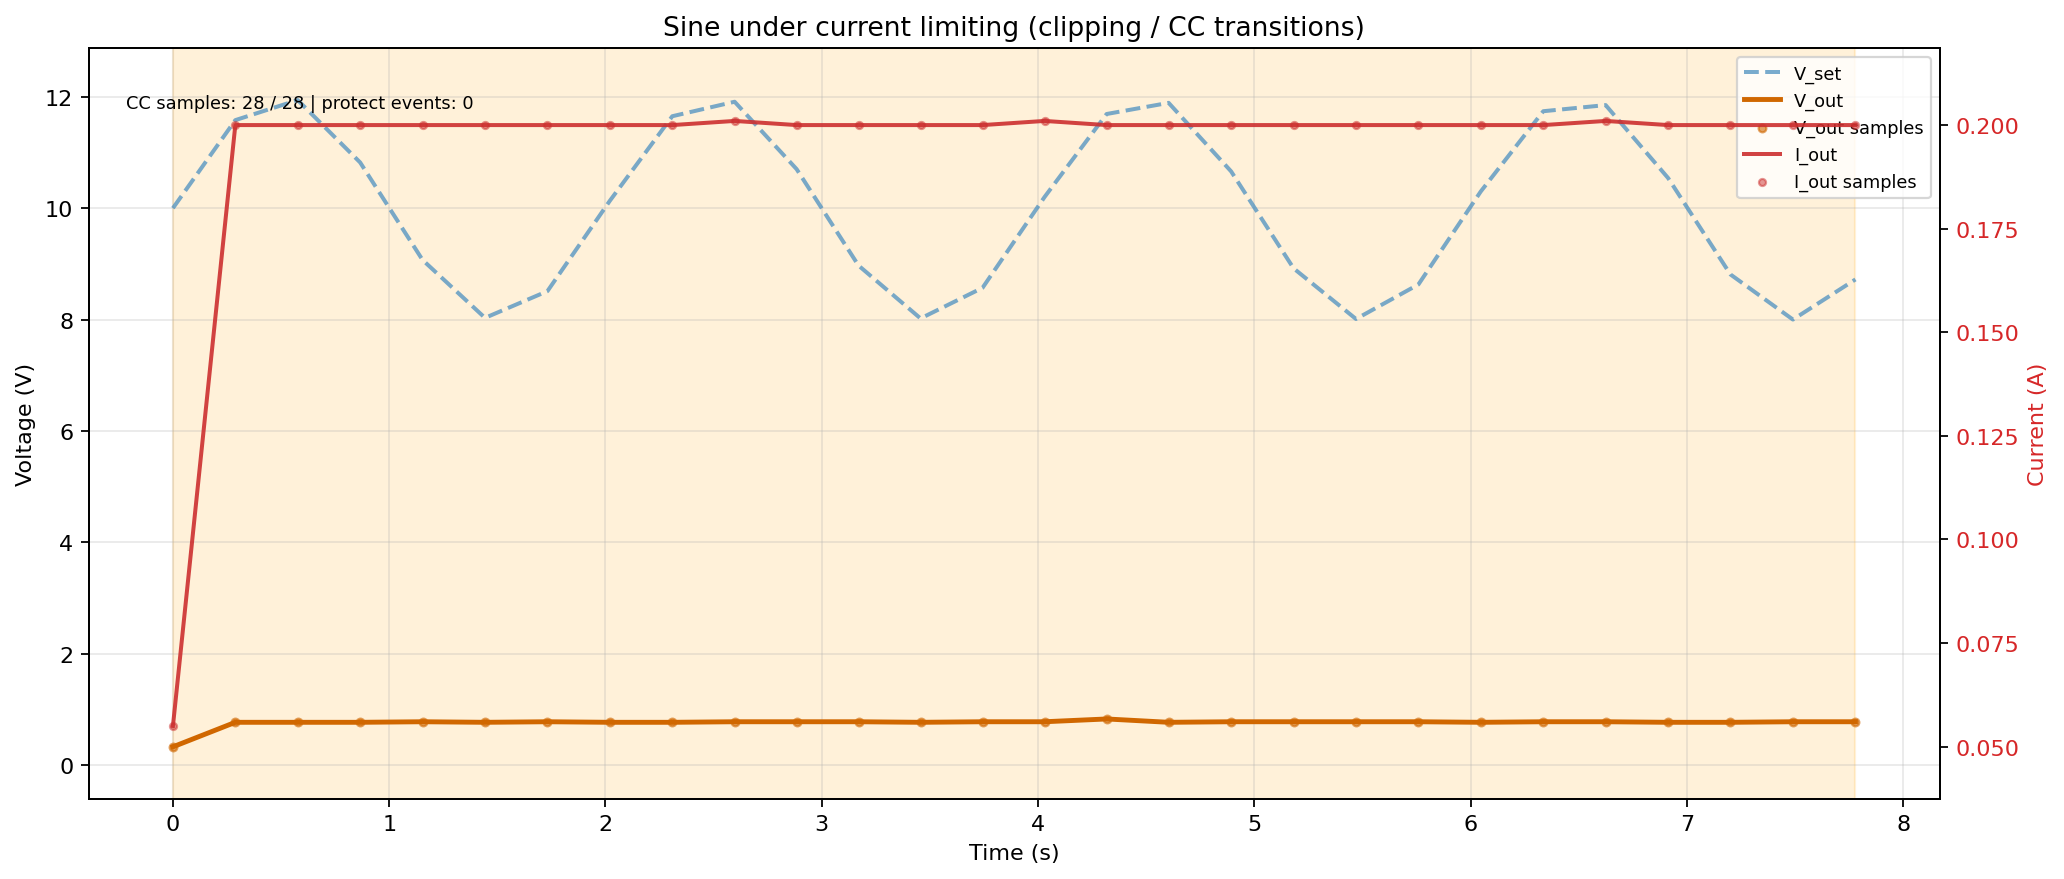
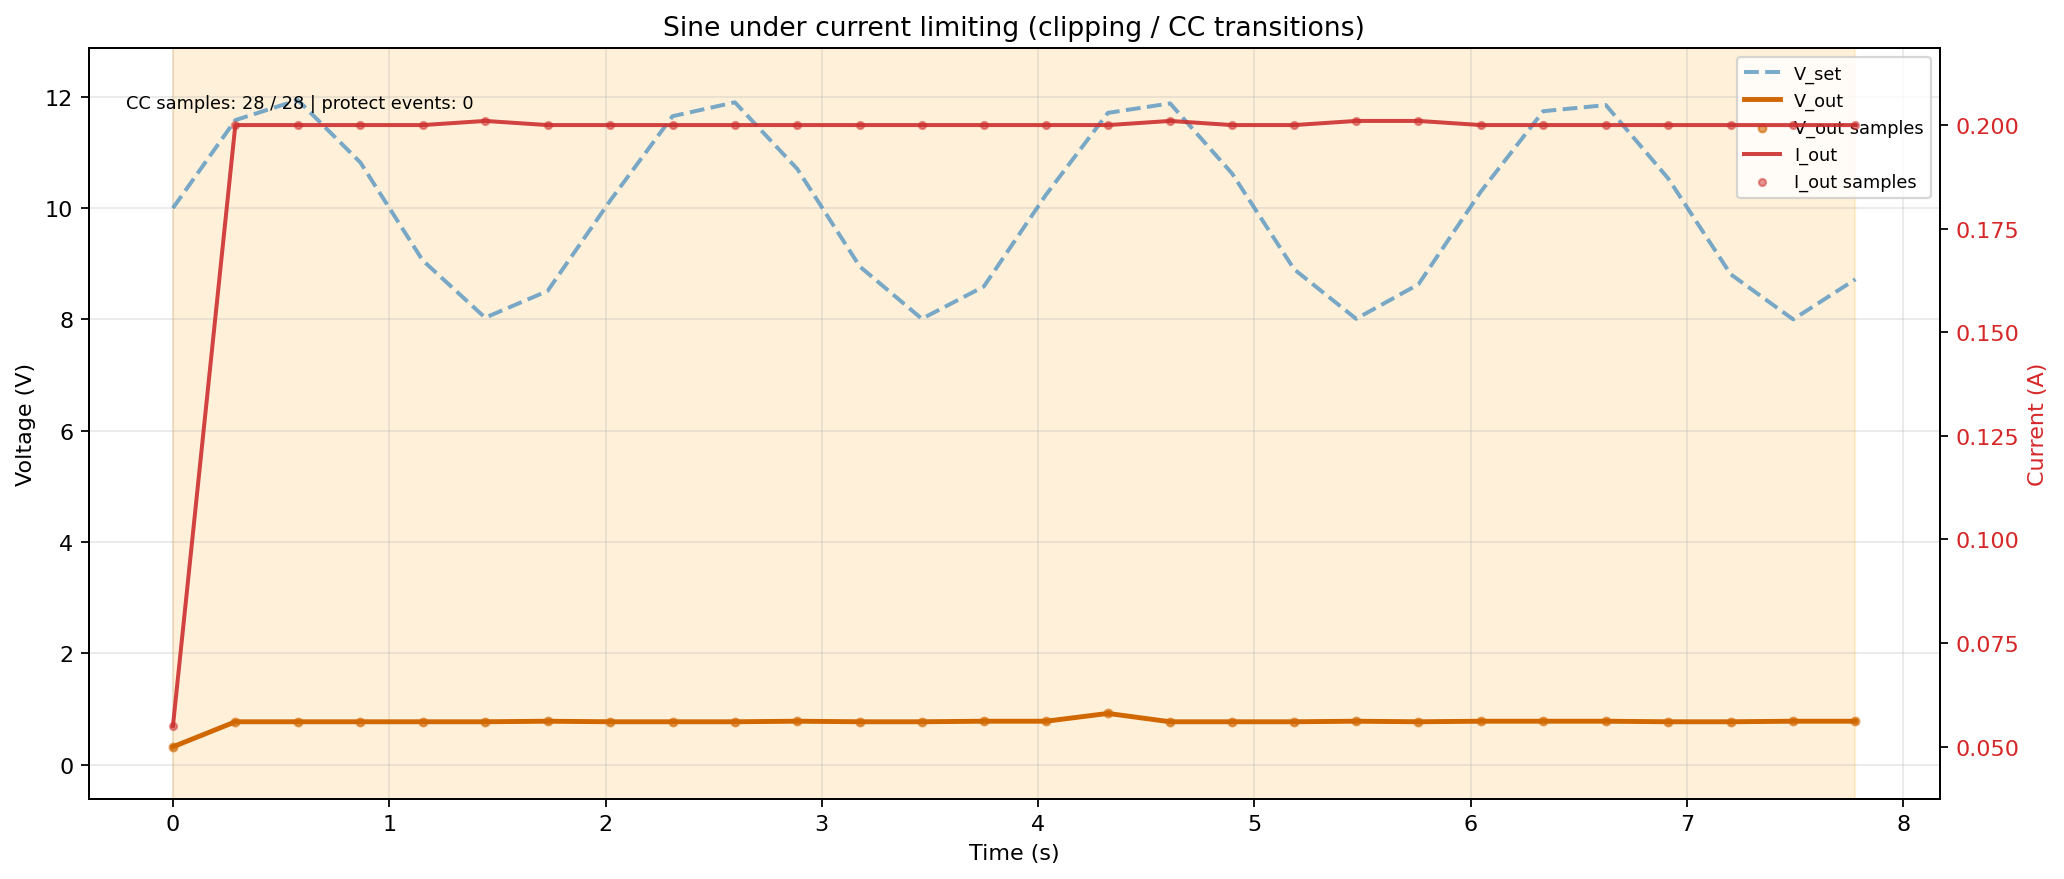
feat: improve waveform plots with 1.5-cycle view and CC demo cases

diff --git a/scripts/plot_waveforms.py b/scripts/plot_waveforms.py
@@ -28,35 +28,35 @@ def load(path):
     return rows
 
 
-def _period_plot(ax, rows, label):
+def _period_plot(ax, rows, label, min_cycles=1.5):
     if not rows:
         ax.set_title(f"{label} (no data)")
         return
-    # Use explicit captured phase if available; fallback to normalized elapsed.
-    if "phase" in rows[0]:
-        phase = np.array([r["phase"] for r in rows])
-    else:
-        t = np.array([r["ts"] for r in rows])
-        dt = t - t.min()
-        duration = dt.max() if dt.max() > 0 else 1.0
-        phase = (dt / duration) % 1.0
 
-    order = np.argsort(phase)
-    x = phase[order]
-    v_set = np.array([r.get("v_set", 0.0) for r in rows])[order]
-    v_out = np.array([r.get("v_out", 0.0) for r in rows])[order]
-    i_out = np.array([r.get("i_out", 0.0) for r in rows])[order]
+    elapsed = np.array([r.get("elapsed_s", 0.0) for r in rows], dtype=float)
+    if np.all(elapsed == 0.0):
+        t0 = rows[0]["ts"]
+        elapsed = np.array([r["ts"] - t0 for r in rows], dtype=float)
 
-    # Build smooth traces from sparse phase samples while keeping raw points visible.
-    xu, idx = np.unique(x, return_index=True)
-    vsu = v_set[idx]
-    vou = v_out[idx]
-    iou = i_out[idx]
-    if len(xu) >= 2:
-        x_dense = np.linspace(0.0, 1.0, 300)
-        vs_dense = np.interp(x_dense, xu, vsu)
-        vo_dense = np.interp(x_dense, xu, vou)
-        io_dense = np.interp(x_dense, xu, iou)
+    freq_hz = float(rows[0].get("freq_hz", 0.5))
+    freq_hz = max(freq_hz, 1e-6)
+    cycles = elapsed * freq_hz
+
+    cycles_max = float(np.max(cycles)) if len(cycles) else 0.0
+    target_max = min_cycles if cycles_max >= min_cycles else cycles_max
+    mask = cycles <= target_max
+
+    x = cycles[mask]
+    v_set = np.array([r.get("v_set", 0.0) for r in rows], dtype=float)[mask]
+    v_out = np.array([r.get("v_out", 0.0) for r in rows], dtype=float)[mask]
+    i_out = np.array([r.get("i_out", 0.0) for r in rows], dtype=float)[mask]
+
+    # Build smooth traces from sparse samples while keeping raw points visible.
+    if len(x) >= 2:
+        x_dense = np.linspace(float(np.min(x)), float(np.max(x)), 320)
+        vs_dense = np.interp(x_dense, x, v_set)
+        vo_dense = np.interp(x_dense, x, v_out)
+        io_dense = np.interp(x_dense, x, i_out)
     else:
         x_dense = x
         vs_dense = v_set
@@ -66,11 +66,19 @@ def _period_plot(ax, rows, label):
     ax.plot(x_dense, vs_dense, "--", linewidth=1.8, alpha=0.75, color="#4C90C0", label="V_set")
     ax.plot(x_dense, vo_dense, "-", linewidth=2.2, color="#D06700", label="V_out")
     ax.scatter(x, v_out, s=12, color="#D06700", alpha=0.6, zorder=3, label="V_out samples")
-    ax.set_xlim(0, 1)
-    ax.set_xlabel("Phase (0..1, one period)")
+    ax.set_xlim(0, max(1.5, float(np.max(x)) if len(x) else 1.5))
+    ax.set_xlabel("Cycle index (phase-0 markers at integers)")
     ax.set_ylabel("Voltage (V)")
     ax.set_title(label)
     ax.grid(True, alpha=0.28)
+
+    # Explicitly mark phase 0 for each cycle boundary.
+    max_cycle_line = int(np.ceil(float(np.max(x)) if len(x) else 0.0))
+    for c in range(0, max_cycle_line + 1):
+        ax.axvline(float(c), color="#777777", alpha=0.18, linewidth=1.0)
+
+    if len(x) > 0:
+        ax.scatter([x[0]], [v_out[0]], s=44, color="#B00020", zorder=5, label="sample @ cycle 0")
 
     v_min = min(float(np.min(v_set)), float(np.min(v_out)))
     v_max = max(float(np.max(v_set)), float(np.max(v_out)))
@@ -89,7 +97,13 @@ def _period_plot(ax, rows, label):
     ax2.set_ylim(i_min - i_pad, i_max + i_pad)
 
     overshoot = float(np.max(v_out - v_set)) if len(v_out) else 0.0
-    ax.text(0.02, 0.92, f"max overshoot: {overshoot:.3f} V", transform=ax.transAxes, fontsize=8)
+    ax.text(
+        0.02,
+        0.92,
+        f"max overshoot: {overshoot:.3f} V | plotted window: {max(1.5, float(np.max(x)) if len(x) else 1.5):.2f} cycles",
+        transform=ax.transAxes,
+        fontsize=8,
+    )
 
     h1, l1 = ax.get_legend_handles_labels()
     h2, l2 = ax2.get_legend_handles_labels()
@@ -160,10 +174,85 @@ def _clip_plot(ax, rows):
     ax.legend(h1 + h2, l1 + l2, loc="upper right", fontsize=8)
 
 
+def _plot_series_with_cc(ax, x, y, cc_mask, base_label, base_color, cc_color):
+    if len(x) == 0:
+        return
+    y_base = np.where(cc_mask, np.nan, y)
+    y_cc = np.where(cc_mask, y, np.nan)
+    ax.plot(x, y_base, "-", linewidth=2.0, color=base_color, label=base_label)
+    ax.plot(x, y_cc, "-", linewidth=2.4, color=cc_color, label=f"{base_label} (CC)")
+
+
+def _mark_missed_intervals(ax, x):
+    if len(x) < 4:
+        return 0
+    dt = np.diff(x)
+    med = float(np.median(dt)) if len(dt) else 0.0
+    if med <= 0:
+        return 0
+    bad = np.where(dt > (2.2 * med))[0]
+    for i in bad:
+        ax.axvspan(x[i], x[i + 1], color="#b00020", alpha=0.15)
+    return int(len(bad))
+
+
+def _cc_demo_plot(ax, rows, title):
+    if not rows:
+        ax.set_title(f"{title} (no data)")
+        return
+
+    t0 = rows[0]["ts"]
+    t = np.array([r["ts"] - t0 for r in rows])
+    v_set = np.array([r.get("v_set", 0.0) for r in rows])
+    v_out = np.array([r.get("v_out", 0.0) for r in rows])
+    i_out = np.array([r.get("i_out", 0.0) for r in rows])
+    cv = np.array([r.get("cv_cc", "CV") for r in rows])
+    cc_mask = cv == "CC"
+
+    missed = _mark_missed_intervals(ax, t)
+
+    ax.plot(t, v_set, "--", linewidth=1.8, alpha=0.8, color="#4C90C0", label="V_set")
+    _plot_series_with_cc(ax, t, v_out, cc_mask, "V_out", "#D06700", "#B00020")
+    ax.scatter(t, v_out, s=11, color="#D06700", alpha=0.45, zorder=3, label="V_out samples")
+
+    ax2 = ax.twinx()
+    _plot_series_with_cc(ax2, t, i_out, cc_mask, "I_out", "#2D7F5E", "#B00020")
+    ax2.scatter(t, i_out, s=9, color="#2D7F5E", alpha=0.45, zorder=3, label="I_out samples")
+
+    ax.set_title(title)
+    ax.set_xlabel("Time (s)")
+    ax.set_ylabel("Voltage (V)")
+    ax2.set_ylabel("Current (A)")
+    ax.grid(True, alpha=0.28)
+
+    v_min = min(float(np.min(v_set)), float(np.min(v_out)))
+    v_max = max(float(np.max(v_set)), float(np.max(v_out)))
+    v_pad = max(0.25, 0.08 * (v_max - v_min if v_max > v_min else 1.0))
+    ax.set_ylim(v_min - v_pad, v_max + v_pad)
+
+    i_min = float(np.min(i_out))
+    i_max = float(np.max(i_out))
+    i_pad = max(0.01, 0.12 * (i_max - i_min if i_max > i_min else 0.05))
+    ax2.set_ylim(i_min - i_pad, i_max + i_pad)
+
+    ax.text(
+        0.02,
+        0.92,
+        f"CC samples: {int(np.sum(cc_mask))}/{len(rows)} | missed intervals: {missed}",
+        transform=ax.transAxes,
+        fontsize=8,
+    )
+
+    h1, l1 = ax.get_legend_handles_labels()
+    h2, l2 = ax2.get_legend_handles_labels()
+    ax.legend(h1 + h2, l1 + l2, loc="upper right", fontsize=8)
+
+
 def main() -> int:
     in_dir = Path("docs")
-    period_png = in_dir / "mr11_waveform_tracking_one_period_view_same_settings_overshoot_visible.png"
+    period_png = in_dir / "mr11_waveform_tracking_at_least_1p5_cycle_view_same_settings_overshoot_visible.png"
     clip_png = in_dir / "mr11_sine_under_current_limiting_clipping_cc_transitions.png"
+    cc_demo_png = in_dir / "mr11_current_limit_demo_i200ma_sine_0_12v_and_i300ma_fixed_12v.png"
 
     period_sets = [
         (in_dir / "mr11_sine_period.jsonl", "Sine (period-wide)"),
@@ -174,7 +263,7 @@ def main() -> int:
 
     fig, axes = plt.subplots(4, 1, figsize=(13, 14), tight_layout=True)
     fig.suptitle(
-        "MR11 waveform tracking — one-period view (same settings, overshoot visible)",
+        "MR11 waveform tracking — >=1.5-cycle view (same settings, overshoot visible)",
         fontsize=12,
         fontweight="bold",
     )
@@ -190,6 +279,22 @@ def main() -> int:
     plt.savefig(clip_png, dpi=160, bbox_inches="tight")
     plt.close(fig)
     print(f"Saved: {clip_png}")
+
+    # Dedicated current-limit demo: red segments indicate CC-limited operation.
+    fig, axes = plt.subplots(2, 1, figsize=(13, 9.2), tight_layout=True)
+    _cc_demo_plot(
+        axes[0],
+        load(in_dir / "mr11_current_limit_demo_sine_0_12v_i200ma.jsonl"),
+        "Current-limit demo: sine 0-12 V with fixed 200 mA limit",
+    )
+    _cc_demo_plot(
+        axes[1],
+        load(in_dir / "mr11_current_limit_demo_fixed_12v_i300ma.jsonl"),
+        "Current-limit demo: fixed 12 V with fixed 300 mA limit",
+    )
+    plt.savefig(cc_demo_png, dpi=170, bbox_inches="tight")
+    plt.close(fig)
+    print(f"Saved: {cc_demo_png}")
     return 0
 
 

diff --git a/scripts/waveform_capture.py b/scripts/waveform_capture.py
@@ -35,6 +35,8 @@ def _wave_v(shape: str, phase: float, v_center: float, v_amp: float) -> float:
         return v_center + v_amp * (4 * abs(phase - 0.5) - 1)
     if shape == "sawtooth":
         return v_center + v_amp * (2 * phase - 1)
+    if shape == "dc":
+        return v_center
     # square
     return (v_center + v_amp) if phase < 0.5 else (v_center - v_amp)
 
@@ -104,6 +106,11 @@ def parse_args() -> argparse.Namespace:
     p.add_argument("--v-amp", type=float, default=2.0)
     p.add_argument("--i-limit-normal", type=float, default=1.5)
     p.add_argument("--i-limit-clipped", type=float, default=0.2)
+    p.add_argument("--cc-demo-duration-s", type=float, default=8.0)
+    p.add_argument("--cc-demo-freq-hz", type=float, default=0.5)
+    p.add_argument("--cc-demo-fixed-v", type=float, default=12.0)
+    p.add_argument("--cc-demo-sine-i-limit", type=float, default=0.2)
+    p.add_argument("--cc-demo-fixed-i-limit", type=float, default=0.3)
     return p.parse_args()
 
 
@@ -150,6 +157,36 @@ def main() -> int:
             path=clip_path,
         )
         print(f"sine clip  capture -> {n:3d} rows {clip_path}")
+
+        # Dedicated current-limit demos requested for documentation.
+        cc_sine_path = out_dir / "mr11_current_limit_demo_sine_0_12v_i200ma.jsonl"
+        n = _capture_case(
+            psu,
+            tr,
+            shape="sine",
+            freq_hz=args.cc_demo_freq_hz,
+            duration_s=args.cc_demo_duration_s,
+            v_center=6.0,
+            v_amp=6.0,
+            i_limit_a=args.cc_demo_sine_i_limit,
+            path=cc_sine_path,
+        )
+        print(f"cc demo sine capture -> {n:3d} rows {cc_sine_path}")
+        time.sleep(1.0)
+
+        cc_fixed_path = out_dir / "mr11_current_limit_demo_fixed_12v_i300ma.jsonl"
+        n = _capture_case(
+            psu,
+            tr,
+            shape="dc",
+            freq_hz=max(args.cc_demo_freq_hz, 1e-6),
+            duration_s=args.cc_demo_duration_s,
+            v_center=args.cc_demo_fixed_v,
+            v_amp=0.0,
+            i_limit_a=args.cc_demo_fixed_i_limit,
+            path=cc_fixed_path,
+        )
+        print(f"cc demo fixed capture-> {n:3d} rows {cc_fixed_path}")
 
         # Safe reset
         psu.set_v_set(12.0)

diff --git a/docs/mr11_sine_test.md b/docs/mr11_sine_test.md
@@ -6,9 +6,9 @@ Connected-load waveform behavior and timing accuracy notes for Riden PSU tests.
 
 These captures show the MR11 lamp response under commanded waveform output. The key behavior is that measured output tracking is limited by poll/update timing, not wire baud alone.
 
-![MR11 period-wide waveform response](mr11_waveform_tracking_one_period_view_same_settings_overshoot_visible.png)
+![MR11 period-wide waveform response](mr11_waveform_tracking_at_least_1p5_cycle_view_same_settings_overshoot_visible.png)
 
-Period-wide comparison for sine, sawtooth, triangle, and square drive using identical center/amplitude settings. Each panel overlays `V_set`, `V_out`, and `I_out`, and annotates maximum voltage overshoot.
+At-least-1.5-cycle comparison for sine, sawtooth, triangle, and square drive using identical center/amplitude settings. Each panel overlays `V_set`, `V_out`, and `I_out`, marks raw sample points, and annotates maximum voltage overshoot. Cycle boundaries (`phase = 0`) are shown with vertical reference lines.
 
 ![MR11 current-limit clipping response](mr11_sine_under_current_limiting_clipping_cc_transitions.png)
 
@@ -22,6 +22,15 @@ Interpretation:
 
 - The output is clipping through sustained CC limiting (expected under this limit).
 - No OCP/OVP latch event was observed in this run.
+
+![MR11 current-limit fixed-limit demos](mr11_current_limit_demo_i200ma_sine_0_12v_and_i300ma_fixed_12v.png)
+
+Dedicated current-limit demos:
+
+- Top panel: fixed current limit `200 mA`, voltage command follows sine across `0..12 V`.
+- Bottom panel: fixed voltage command `12 V`, fixed current limit `300 mA`.
+- Red trace segments indicate points where current limiting (CC) is active.
+- Light red background spans indicate potential missed-sample intervals (`delta_t > 2.2x median`).
 
 ## MR11 Fastest vs Safe vs Comprehensive (rerun)
 